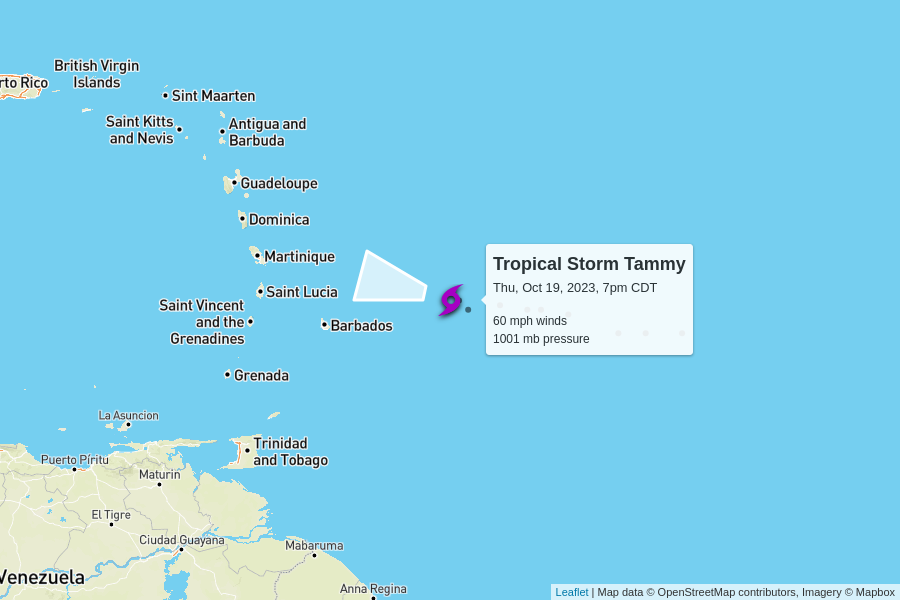
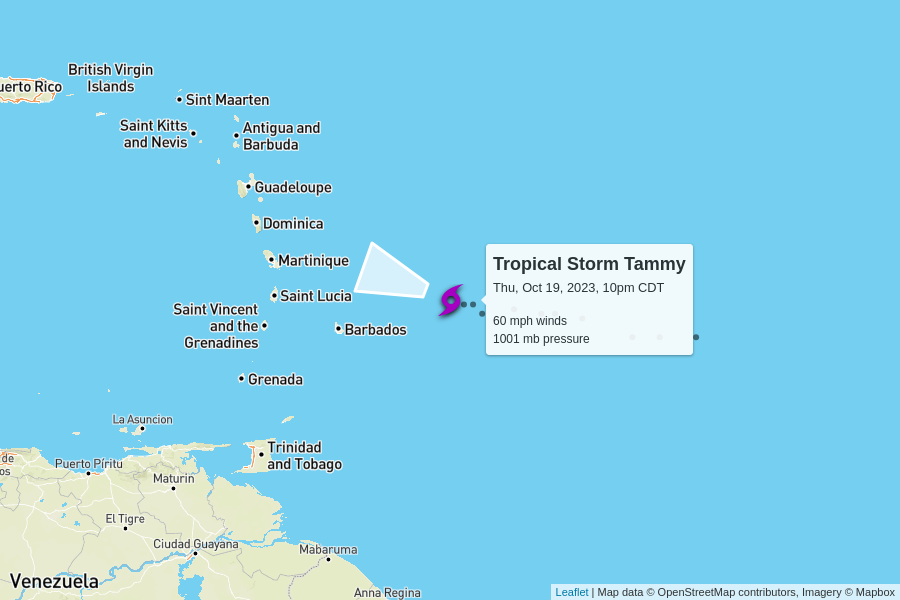
automatic update

diff --git a/docs/index.html b/docs/index.html
@@ -102,7 +102,7 @@
         <td colspan="6" class="storm category-0" >
           <h2>
             Tropical Storm Tammy
-            <p class="updated">last updated <span data-time>2023-10-20T00:00:00.000Z</span></p>
+            <p class="updated">last updated <span data-time>2023-10-20T03:00:00.000Z</span></p>
           </h2>
         </td>
       </tr>
@@ -122,7 +122,7 @@
         <td>
           10 mph to the west-northwest
           <br/>
-          <span style="display: inline-block; font-size: 1.5em; transform: rotate(285deg);">↑</span>
+          <span style="display: inline-block; font-size: 1.5em; transform: rotate(290deg);">↑</span>
         </td>
         <td><a href="https://raw.githubusercontent.com/mgwalker/atlantic-hurricanes/main/data/csv/AL202023.csv">AL202023.csv</a></td>
         <td><a href="https://www.nhc.noaa.gov/archive/2023/TAMMY.shtml?">NHC advisories</a></td>
